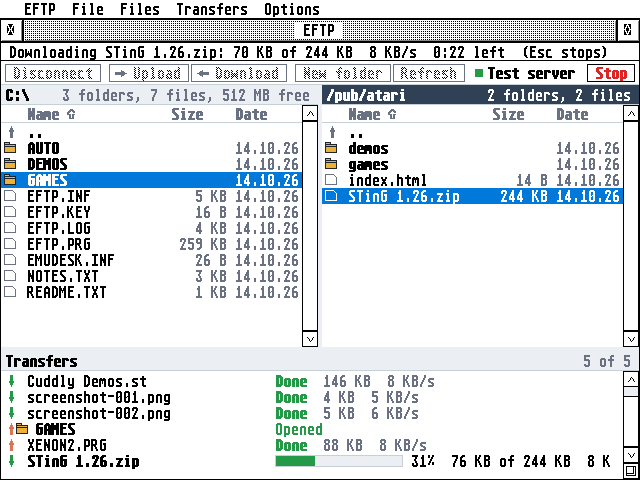
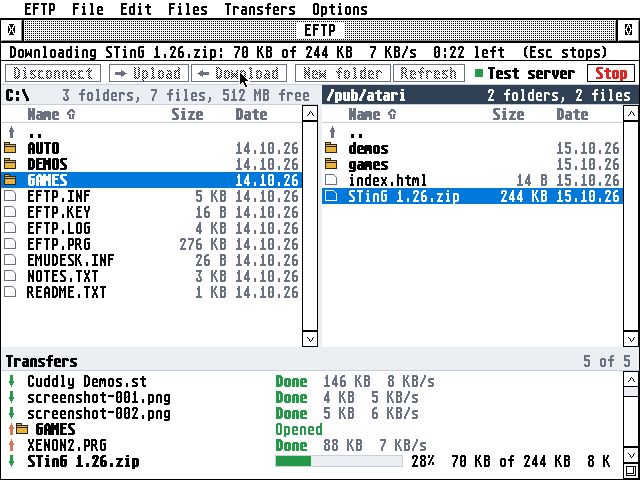
Copy the files' names; paste in dialogs; drops upload; Esc cancels
The GEM clipboard (the AERA guidelines, 4.4, on common/ui/clip.c), with
an Edit menu (Select all moved there from Files): ^C copies the full
names of the files chosen, a line each (C:\GAMES\STARGLD.PRG on the
left, /pub/atari/demo.zip on the server). Every dialog with fields runs
through form_loop: ^C ^X ^V work in them, nothing is copied out of a
password field (one can be pasted in), and Esc presses Cancel (3.2)
instead of emptying the field.

Drag and drop (4.2, common/ui/dd.c): files dropped on the window go up
to the server folder shown, as with VA_START; text is refused, and so is
anything dropped while a transfer runs, so the sender isn't left
waiting.

The guide says so; the screenshots in docs/ are taken again for the
Edit menu (tests/hatari/screenshots.py clicks Options where it is now).
Checked in Hatari under EmuTOS and under FreeMiNT with XaAES.

Claude-Session: https://claude.ai/code/session_01McWfUeeeAUvjhmDvN6UbnJ

diff --git a/ui/dialogs.c b/ui/dialogs.c
@@ -12,6 +12,7 @@
 #include "util.h"
 #include "charset.h"
 #include "tz.h"
+#include "clip.h"
 #include "theme.h"
 #include "tls.h"
 
@@ -283,7 +284,7 @@ static int pw_key(PWFIELD *p, short key, short *idx)
 	if (scan == 0x0e) {			/* Backspace */
 		if (n)
 			p->real[n - 1] = 0;
-	} else if (scan == 0x01 || scan == 0x53) {	/* Esc, Delete: clear */
+	} else if (scan == 0x01 || scan == 0x53) {	/* Delete (Esc: where nothing cancels): clear */
 		p->real[0] = 0;
 	} else if (scan == 0x4b || scan == 0x4d) {	/* the cursor stays at the end */
 		return 1;
@@ -309,7 +310,35 @@ static short first_editable(void)
 	return 0;
 }
 
-/* form_do, with password fields */
+/* ^V in a password field: the clipboard's first line typed in (nothing is
+   ever copied out of one) */
+static void pw_paste(PWFIELD *p, short *idx)
+{
+	char buf[64], *c;
+	clip_get(buf, sizeof(buf));
+	for (c = clip_line(buf); *c; c++)
+		pw_key(p, (unsigned char)*c, idx);
+}
+
+/* what Esc presses (the guidelines, 3.2): Cancel, else the only button
+   that ends the dialog (OK in a box that only says something); 0 when
+   neither is there */
+static short esc_button(void)
+{
+	short i, exits = 0, last = 0;
+	for (i = 1; i < nobj; i++) {
+		if (tree[i].ob_type != G_BUTTON || !(tree[i].ob_flags & EXIT))
+			continue;
+		if (!strcmp((const char *)tree[i].ob_spec, "Cancel"))
+			return i;
+		exits++;
+		last = i;
+	}
+	return exits == 1 ? last : 0;
+}
+
+/* form_do, with password fields, the clipboard (^C ^X ^V) and Esc for
+   Cancel */
 static short form_loop(short start)
 {
 	short next = start ? start : first_editable(), edit = 0, idx = 0, cont = 1;
@@ -326,7 +355,15 @@ static short form_loop(short start)
 			PWFIELD *p = pw_of(edit);
 			short scan = KEY_SCAN(e.kreturn);
 			short nav = scan == 0x1c || scan == 0x72 || scan == 0x0f || scan == 0x48 || scan == 0x50;
-			if (!(p && !nav && pw_key(p, e.kreturn, &idx))) {
+			if (scan == 0x01 && esc_button()) {
+				next = esc_button();	/* as if it were clicked */
+				cont = 0;
+			} else if (edit && clip_key(e.kreturn)) {
+				if (!p)
+					clip_edit(tree, edit, &idx, e.kreturn);
+				else if (clip_key(e.kreturn) == CLIP_PASTE)
+					pw_paste(p, &idx);
+			} else if (!(p && !nav && pw_key(p, e.kreturn, &idx))) {
 				short kr;
 				cont = form_keybd(tree, edit, next, e.kreturn, &next, &kr);
 				if (kr)
@@ -371,7 +408,7 @@ short d_do(short edit)
 	wind_update(3);			/* BEG_MCTRL: the dialog owns the mouse */
 	form_dial(FMD_START, x, y, w, h);
 	objc_draw(tree, 0, 8, x, y, w, h);
-	r = (npw ? form_loop(edit) : form_do(tree, edit)) & 0x7fff;
+	r = form_loop(edit) & 0x7fff;
 	form_dial(FMD_FINISH, x, y, w, h);
 	wind_update(2);
 	wind_update(END_UPDATE);
@@ -631,7 +668,7 @@ static short settings_run(short pages_box)
 	page_area.h = tree[pages_box].ob_height;
 	objc_draw(tree, 0, 8, x, y, w, h);
 	for (;;) {
-		r = form_do(tree, first_edit()) & 0x7fff;
+		r = form_loop(first_edit()) & 0x7fff;
 		for (k = 0; k < nticks; k++)
 			if (r == tick_box[k] || r == tick_lbl[k]) {
 				s_on[tick_var[k]] = !s_on[tick_var[k]];
@@ -1154,6 +1191,7 @@ void dlg_keys(void)
 		"^N  new folder             ^E  rename",
 		"Del delete                 ^I  permissions",
 		"^A  select all             ^R, Esc  read again",
+		"^C  copy the names chosen  (in dialogs ^C ^X ^V)",
 		"Shift+click  one more      Control+click  a range",
 		"Space  select and move on  a letter: to that name",
 		"^L  server messages        F10 Hebrew keyboard",

diff --git a/ui/main.c b/ui/main.c
@@ -15,6 +15,8 @@
 #include "crash.h"
 #include "help.h"
 #include "av.h"
+#include "clip.h"
+#include "dd.h"
 #include "aboutbox.h"
 #include "mbar.h"
 #include "../src/version.h"
@@ -62,9 +64,16 @@ static const MBAR_ITEM m_files[] = {
 	{ "Delete...", "Del", C_DELETE },
 	{ "Permissions...", "^I", C_CHMOD },
 	{ "-", 0, 0 },
-	{ "Select all", "^A", C_SELALL },
 	{ "Refresh", "^R", C_REFRESH },
 	{ "Show hidden files", 0, C_HIDDEN },
+	{ 0, 0, 0 }
+};
+static const MBAR_ITEM m_edit[] = {
+	{ "Cut", "^X", C_CUT },
+	{ "Copy", "^C", C_COPY },
+	{ "Paste", "^V", C_PASTE },
+	{ "-", 0, 0 },
+	{ "Select all", "^A", C_SELALL },
 	{ 0, 0, 0 }
 };
 static const MBAR_ITEM m_xfer[] = {
@@ -89,6 +98,7 @@ static const MBAR_ITEM m_opts[] = {
 static const MBAR_TITLE bar[] = {
 	{ " EFTP ", m_desk },
 	{ " File ", m_file },
+	{ " Edit ", m_edit },
 	{ " Files ", m_files },
 	{ " Transfers ", m_xfer },
 	{ " Options ", m_opts },
@@ -113,6 +123,9 @@ static int focus_side(void)
 void menu_update(void)
 {
 	int side = focus_side(), n = (int)files_count(side);
+	enable(C_CUT, 0);		/* in dialogs only: no text in the window */
+	enable(C_COPY, side_of(win_focused()) >= 0);
+	enable(C_PASTE, 0);
 	enable(C_DISCONNECT, ftp != 0);
 	enable(C_TRANSFER, ftp && n > 0);
 	enable(C_NEWFOLDER, side == SIDE_REMOTE ? ftp != 0 : ldir[0] != 0);
@@ -237,6 +250,12 @@ static void handle_poll_event(short which, short *msg, AEVENT *ev)
 			conn_stop = 1;
 			quit = 1;
 			break;
+		default: {
+			/* a drop now is refused, not left unanswered */
+			DROP d;
+			dd_message(msg, 0, &d);
+			dd_done(&d);
+		}
 		}
 	}
 	if (which & MU_KEYBD) {
@@ -493,6 +512,10 @@ static void command(short cmd)
 	case C_DELETE: files_delete(side); break;
 	case C_CHMOD: files_chmod(); break;
 	case C_SELALL: files_select_all(side); break;
+	case C_COPY:
+		if (side_of(win_focused()) >= 0)
+			files_copy(side_of(win_focused()));
+		break;
 	case C_REFRESH:
 		files_refresh(SIDE_LOCAL);
 		if (ftp)
@@ -580,6 +603,7 @@ static int shortcut(short kstate, short key)
 		case 0x12: cmd = C_RENAME; break;	/* E */
 		case 0x17: cmd = C_CHMOD; break;	/* I */
 		case 0x1e: cmd = C_SELALL; break;	/* A */
+		case 0x2e: cmd = C_COPY; break;		/* C */
 		case 0x13: cmd = C_REFRESH; break;	/* R */
 		case 0x26: cmd = C_LOG; break;		/* L */
 		}
@@ -851,11 +875,19 @@ int main(void)
 			case AP_TERM:
 				quit = 1;
 				break;
-			default:
-				if (av_message(msg, &va) == AV_START)
-					av_start(va);
-				else
-					win_message(msg);
+			default: {
+				DROP d;
+				/* files dropped go up, as VA_START's */
+				switch (dd_message(msg, DD_WANT_FILES, &d)) {
+				case DD_FILES: av_start(d.data); break;
+				case DD_NONE:
+					if (av_message(msg, &va) == AV_START)
+						av_start(va);
+					else
+						win_message(msg);
+				}
+				dd_done(&d);
+			}
 			}
 		}
 		if (main_iconified)	/* an icon takes no keys or clicks */

diff --git a/ui/files.c b/ui/files.c
@@ -13,6 +13,7 @@
 #include "theme.h"
 #include "util.h"
 #include "charset.h"
+#include "clip.h"
 
 FTP *ftp;
 SITE *cur_site;
@@ -906,6 +907,38 @@ static int tip(WIN *w, short mx, short my, char *out, int size)
 	snprintf(out, size, "%s|%s%s%s%s%s", e->disp, e->type == FE_DIR ? "folder" : sz,
 		 dt[0] ? ", " : "", dt, e->perm[0] ? ", " : "", e->perm);
 	return 1;
+}
+
+/* ^C: the chosen files' full names, a line each (the one with the cursor
+   when none is chosen): C:\\FOLDER\\NAME.TXT here, /folder/name on the
+   server */
+void files_copy(int side)
+{
+	SIDE *s = &sd[side];
+	FENTRY *cur = entry(s, s->cur);
+	char p[400], *t;
+	long i, n = 0, cap;
+	if (!s->ok || (!s->nmarks && !cur))
+		return;
+	cap = (s->nmarks ? s->nmarks : 1) * (long)sizeof(p) + 1;
+	if (!(t = malloc(cap)))
+		return;
+	for (i = 0; i < s->l.n; i++) {
+		FENTRY *e = &s->l.e[i];
+		if (s->nmarks ? !s->mark[i] : e != cur)
+			continue;
+		if (side == SIDE_REMOTE)
+			rpath_join(p, sizeof(p), ftp ? ftp->cwd : "", e->disp);
+		else
+			path_join(p, sizeof(p), ldir, e->name);
+		if (n)
+			t[n++] = '\n';
+		strcpy(t + n, p);
+		n += (long)strlen(p);
+	}
+	t[n] = 0;
+	main_status(clip_put(t, n) ? "Copied to the clipboard." : "Couldn't write the clipboard.");
+	free(t);
 }
 
 /* ---------------- commands ---------------- */

diff --git a/ui/ui.h b/ui/ui.h
@@ -114,6 +114,7 @@ void remote_cd(const char *dir);
 void files_titles(void);
 long files_count(int side);		/* what a command would work on */
 void files_select_all(int side);
+void files_copy(int side);			/* ^C: the chosen files' names, a line each */
 void files_transfer(int side);		/* the selection to the other side */
 int  files_upload_path(const char *path);	/* a file or folder on the Atari to the server */
 void files_new_folder(int side);
@@ -168,6 +169,7 @@ OBJECT *d_tree(void);
 enum {
 	C_NONE, C_ABOUT,
 	C_SITES, C_QUICK, C_DISCONNECT, C_QUIT,
+	C_CUT, C_COPY, C_PASTE,
 	C_TRANSFER, C_NEWFOLDER, C_RENAME, C_DELETE, C_CHMOD, C_SELALL, C_REFRESH, C_HIDDEN,
 	C_RETRY, C_CLEARDONE, C_CLEARALL, C_LOG,
 	C_SETTINGS, C_FONT, C_HEBREW, C_PLOG, C_FALCON

diff --git a/tests/hatari/screenshots.py b/tests/hatari/screenshots.py
@@ -78,15 +78,15 @@ try:
     time.sleep(10)
     keep(r, "screenshot", "screenshot.png")
     time.sleep(25)
-    r.click(290, 9)                            # Options > Settings
+    r.click(338, 9)                            # Options > Settings
     time.sleep(1)
-    r.click(310, 27)
+    r.click(358, 27)
     time.sleep(2)
     r.click(140, 321)                          # the Secure part
     r.move(600, 450)
     time.sleep(1.5)
     keep(r, "settings", "settings.png")
-    r.click(395, 353)                          # Cancel (Esc would empty a field)
+    r.click(395, 353)                          # Cancel
     time.sleep(1.5)
     r.click(400, row(4))
     r.rclick(420, row(4))

diff --git a/docs/GUIDE.md b/docs/GUIDE.md
@@ -201,7 +201,16 @@ the progress shows. Esc, Undo or the red Stop button stops the transfer.
 Files and folders handed to EFTP while it runs, by a desktop such as
 Thing, jinnee or Gemini (or any program, with the AV protocol's
 VA_START), go to the server folder shown, as if dragged there from the
-left. Connect first: without a connection EFTP says so.
+left. Connect first: without a connection EFTP says so. Under MultiTOS,
+MagiC or XaAES you can drag them onto EFTP's window too. While a
+transfer runs, a drop is refused: drop them again when it is done.
+
+**Copy** (^C, Edit > Copy) puts the full names of the files you chose on
+the clipboard, a line each: `C:\GAMES\STARGLD.PRG` on the left,
+`/pub/atari/demo.zip` on the server. In dialogs, ^C copies a field, ^X
+cuts it and ^V pastes into it (a host name or a long folder, say);
+nothing is ever copied out of a password field, but you can paste one
+in.
 
 ## Names
 
@@ -320,6 +329,8 @@ F10 switches to the Israeli keyboard for typing Hebrew names.
 | Del            | delete                                         |
 | ^I             | permissions                                    |
 | ^A             | select all                                     |
+| ^C             | copy the names of the files chosen             |
+| ^C ^X ^V       | in a dialog: copy, cut, paste a field          |
 | ^R, Esc        | read the lists again                           |
 | Space, Insert  | select the file under the cursor and move on   |
 | ^L             | server messages / transfers                    |
